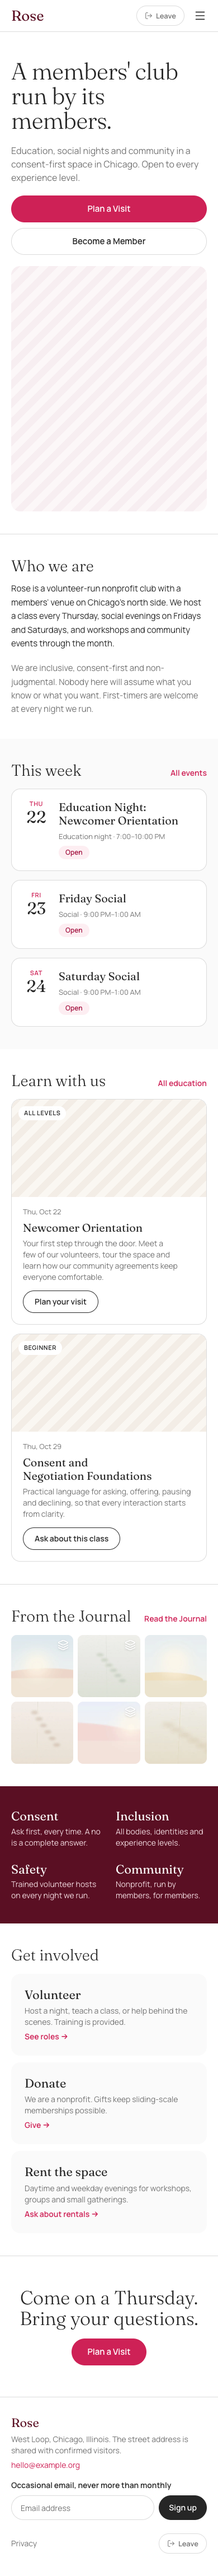
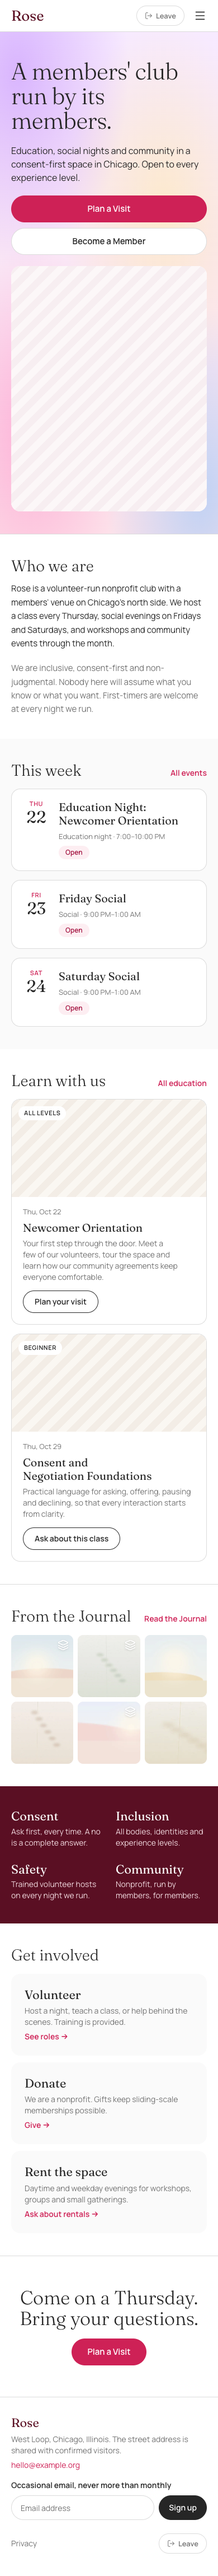
Add a pastel gradient behind the home page hero

Changed region(s): [[0.0, 0.0, 1.0, 0.2177]]

diff --git a/frontend/src/pages/HomePage.tsx b/frontend/src/pages/HomePage.tsx
@@ -5,7 +5,7 @@ import { JournalStrip } from '@/components/content/JournalStrip'
 import { OpportunityCard } from '@/components/content/OpportunityCard'
 import { ErrorState, SkeletonCards, EmptyState } from '@/components/content/States'
 import { ValuesStrip } from '@/components/content/ValuesStrip'
-import { ButtonLink, GUTTER, ImageFrame, Section, SectionHeading } from '@/components/ui'
+import { ButtonLink, GradientBackground, GUTTER, ImageFrame, Section, SectionHeading } from '@/components/ui'
 import { api } from '@/lib/api'
 import { cn } from '@/lib/cn'
 import { usePageContent, type PageCopy } from '@/lib/pageContent'
@@ -100,14 +100,15 @@ export function HomePage() {
 
   return (
     <>
-      <section aria-labelledby="home-title">
+      <section aria-labelledby="home-title" className="relative isolate overflow-hidden">
+        <GradientBackground />
         <div className={cn('mx-auto grid max-w-[1440px] items-center gap-5 pb-10 pt-12 lg:grid-cols-2 lg:gap-16 lg:py-24', GUTTER)}>
           <div className="flex flex-col gap-5 lg:gap-6">
             <h1 id="home-title" className="text-[2.625rem] font-light leading-[1.05] tracking-[-0.01em] text-fg lg:text-display">
               {copy.status === 'loading' && <span className="sr-only">Loading</span>}
               <Copy copy={copy} k="hero.title" as="span" lines={2} />
             </h1>
-            <Copy copy={copy} k="hero.lede" lines={2} className="max-w-[460px] text-base text-fg-muted lg:text-lg" />
+            <Copy copy={copy} k="hero.lede" lines={2} className="max-w-[460px] text-base text-fg lg:text-lg" />
             <div className="flex flex-col gap-2.5 sm:flex-row sm:gap-3">
               <ButtonLink to="/visit" size="lg">
                 Plan a Visit

diff --git a/frontend/src/index.css b/frontend/src/index.css
@@ -314,6 +314,25 @@
     );
   }
 
+  /* The home hero's background. Text on it uses `fg`: muted grey falls below 4.5:1 on the violet and pink. */
+  .gradient-aurora {
+    background:
+      radial-gradient(ellipse 85% 65% at 8% 8%, rgb(175 109 255 / 0.42), transparent 60%),
+      radial-gradient(ellipse 75% 60% at 75% 35%, rgb(255 235 170 / 0.55), transparent 62%),
+      radial-gradient(ellipse 70% 60% at 15% 80%, rgb(255 100 180 / 0.4), transparent 62%),
+      radial-gradient(ellipse 70% 60% at 92% 92%, rgb(120 190 255 / 0.45), transparent 62%),
+      linear-gradient(180deg, #f7eaff 0%, #fde2ea 100%);
+  }
+
+  [data-appearance='dark'] .gradient-aurora {
+    background:
+      radial-gradient(ellipse 85% 65% at 8% 8%, rgb(175 109 255 / 0.22), transparent 60%),
+      radial-gradient(ellipse 75% 60% at 75% 35%, rgb(255 235 170 / 0.1), transparent 62%),
+      radial-gradient(ellipse 70% 60% at 15% 80%, rgb(255 100 180 / 0.16), transparent 62%),
+      radial-gradient(ellipse 70% 60% at 92% 92%, rgb(120 190 255 / 0.16), transparent 62%),
+      linear-gradient(180deg, #120c18 0%, #160a10 100%);
+  }
+
   .wash-warm {
     background: repeating-linear-gradient(
       135deg,

diff --git a/frontend/src/components/ui/GradientBackground.test.tsx b/frontend/src/components/ui/GradientBackground.test.tsx
@@ -1,0 +1,13 @@
+import { render } from '@testing-library/react'
+import { describe, expect, it } from 'vitest'
+import { GradientBackground } from './GradientBackground'
+
+describe('GradientBackground', () => {
+  it('is a decorative layer behind its section', () => {
+    const { container } = render(<GradientBackground className="opacity-90" />)
+    const layer = container.firstElementChild!
+    expect(layer).toHaveAttribute('aria-hidden', 'true')
+    expect(layer).toHaveClass('gradient-aurora', 'absolute', 'inset-0', '-z-10', 'opacity-90')
+    expect(layer).toBeEmptyDOMElement()
+  })
+})

diff --git a/frontend/src/components/ui/GradientBackground.tsx b/frontend/src/components/ui/GradientBackground.tsx
@@ -1,0 +1,10 @@
+import { cn } from '@/lib/cn'
+
+/**
+ * A soft pastel glow behind a section (the "Aurora" gradient: violet, butter, pink and sky
+ * washes over a lavender-to-blush base), dimmed in the dark appearance. Decorative only.
+ * Put it inside a `relative isolate` parent; it fills the parent and sits behind its content.
+ */
+export function GradientBackground({ className }: { className?: string }) {
+  return <div aria-hidden="true" className={cn('gradient-aurora absolute inset-0 -z-10', className)} />
+}

diff --git a/frontend/src/components/ui/index.ts b/frontend/src/components/ui/index.ts
@@ -3,6 +3,7 @@ export { Button, ButtonLink, type ButtonSize, type ButtonVariant } from './Butto
 export { Card } from './Card'
 export { Checkbox, CheckboxBox } from './Checkbox'
 export { FormField, type FieldControlProps } from './FormField'
+export { GradientBackground } from './GradientBackground'
 export { ImageFrame, type AspectRatio, type PlaceholderTexture } from './ImageFrame'
 export { Input } from './Input'
 export { Modal } from './Modal'

diff --git a/docs/decisions.md b/docs/decisions.md
@@ -570,3 +570,8 @@ Prompt 01 decisions come first (1 to 47); prompt 02 and its review addendum foll
 ### Verification
 
 368. Results at the end of prompt 08: backend 952 tests; frontend 128 tests, type check, oxlint and build clean; Playwright 117 passed (1 skipped: the post modal on phones); the design sweep reports 108 captures with no console errors, failed or third-party requests, sideways overflow or serious or critical axe findings, and the Leave control on every page. Lighthouse (mobile, production build in the e2e stack): Home 97 / 100 / 100, Events 96 / 100 / 100, Visit 96 / 100 / 100 and the member feed 93 / 100 / 100 for performance, accessibility and best practices. SEO is 63 on all four only because that environment's `robots.txt` closes the whole site to crawlers (`SITE_INDEXABLE` is off outside production; member pages are `noindex` in every environment); every other SEO audit passes.
+
+### After prompt 08
+
+369. At the owner's request the home page hero sits on a pastel "Aurora" gradient (violet, butter, pink and sky washes over a lavender-to-blush base), a step away from the design file's white hero. It is a class in `index.css` drawn by `GradientBackground`, not an inline style, and a dimmed version applies in the dark appearance. On it the lead is in the text colour: the muted grey measures as low as 2.7:1 on the violet and pink washes.
+

diff --git a/docs/design/tokens.md b/docs/design/tokens.md
@@ -58,6 +58,7 @@ Contrast ratios are WCAG 2.1 ratios, measured on the background named.
 | `wash-rose` (class; colours `wash-rose-1/2`) | `#F7EEF1` → `#FCF7F8` (dark `#1C1C1C` → `#141414`) | The striped image placeholder in every post, tile and hero. The app draws real photographs; the stripe stays only as the loading background under them. |
 | `wash-warm` (class; colours `wash-warm-1/2`) | `#F3EDE6` → `#FAF7F2` (dark as above) | Education and event placeholders. Same rule. |
 | `scrim` | `rgba(0,0,0,.65)` | Dialog backdrops (post modal, Create, sheets). |
+| `gradient-aurora` (class) | violet `rgb(175 109 255 / .42)`, butter `rgb(255 235 170 / .55)`, pink `rgb(255 100 180 / .40)`, sky `rgb(120 190 255 / .45)` over `#F7EAFF` → `#FDE2EA`; dark: the same washes at about half strength over `#120C18` → `#160A10` | Home hero background (not in the designs; decision 369). |
 | `story` | `#1A1A1A` | App story viewer backdrop (desktop). Text on stories is white. |
 
 ## Type

diff --git a/docs/design-system.md b/docs/design-system.md
@@ -80,6 +80,7 @@ use `fg-muted` rather than `#A3A3A3` (2.5:1).
 | `Section`, `SectionHeading`, `GUTTER` | Page sections | 1440px wide with the 20 / 32 / 48px gutter; `rule` adds the 1px top line. The heading is Fraunces 300 with an optional rose link on the right. |
 | `ImageFrame` | Pictures | Manifest or API pictures over the `wash-*` placeholder; refuses any picture without face consent. |
 | `Modal`, `ToastProvider` | Sheets | Native `<dialog>`; 20px panel, modal shadow. |
+| `GradientBackground` | (not in the designs; decision 369) | The home hero's pastel "Aurora" glow (`.gradient-aurora`), dimmed in dark. Decorative; inside a `relative isolate` parent. Text on it uses `fg`. |
 
 `frontend/src/components/layout`: `Header` (72px; a quiet version with the step indicator
 on `/join`), `Footer` (the full footer on the home page, the one-row footer elsewhere),
